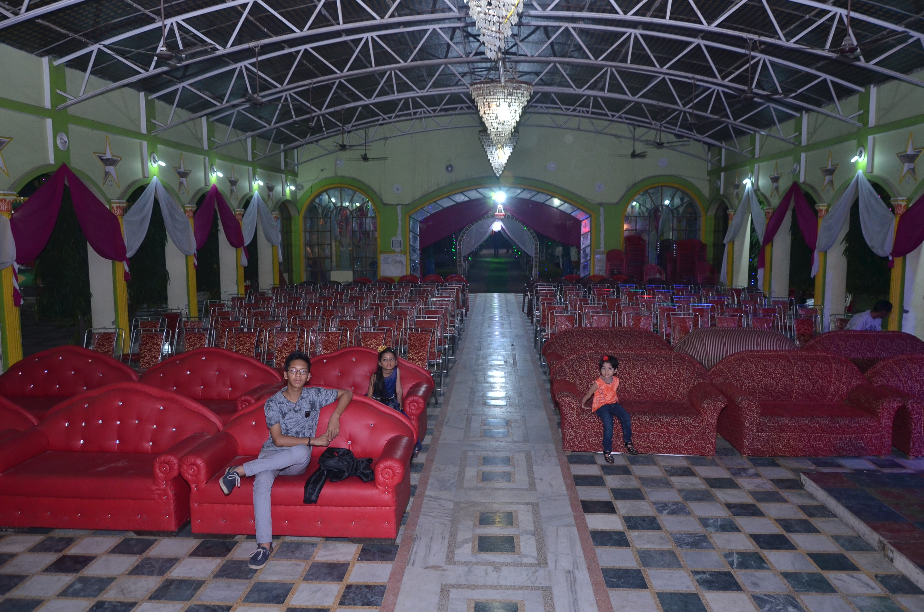
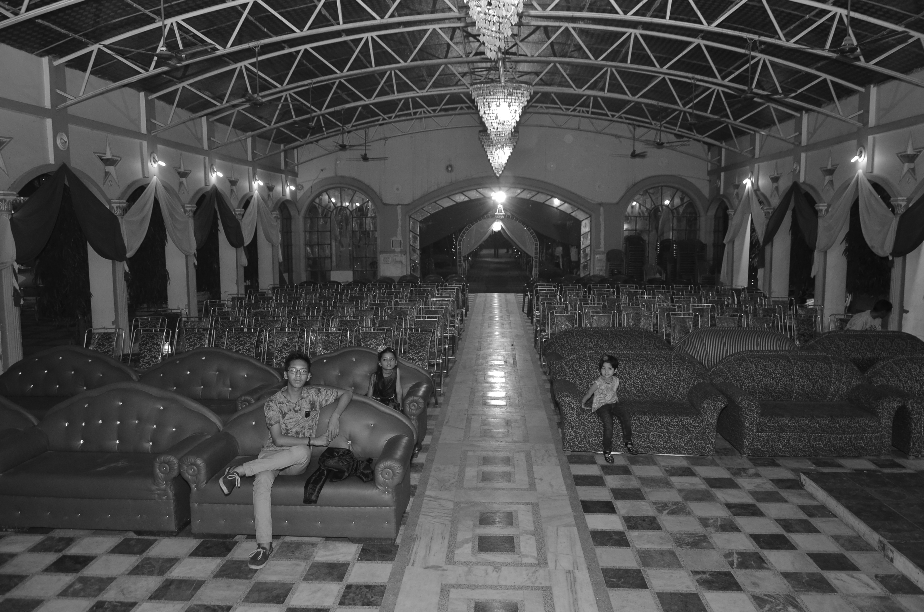
line and arrow

diff --git a/Started_with_Images.py b/Started_with_Images.py
@@ -13,7 +13,7 @@ import cv2
 # image = cv2.imread(filename=r'E:\OpenCV\OpenCV\images\DSC_2962.JPG')
 #image = cv2.imread(filename=r'D:\iNeuron\OpenCV\images\DSC_2962.JPG',flags=cv2.IMREAD_COLOR)
 #image = cv2.imread(filename=r'D:\iNeuron\OpenCV\images\DSC_2962.JPG',flags=cv2.IMREAD_GRAYSCALE)
-image = cv2.imread(filename=r'D:\iNeuron\OpenCV\images\DSC_2962.JPG',flags=cv2.IMREAD_UNCHANGED)
+image = cv2.imread(filename=r'D:\iNeuron\OpenCV\images\DSC_2962.JPG',flags=cv2.IMREAD_GRAYSCALE)
 #image=cv2.resize(image,dsize=(300,300))
 image=cv2.resize(image,dsize=(0,0),fx=0.25,fy=0.25)
 print(image.shape)
@@ -24,4 +24,4 @@ cv2.imshow('deepak marriage', image)
 cv2.waitKey(10000)
 cv2.destroyAllWindows()
 
-
+print(image)

diff --git a/drawLineArrow.py b/drawLineArrow.py
@@ -1,0 +1,12 @@
+import cv2
+#Draw line cv2.line()
+image = cv2.imread(filename=r'D:\iNeuron\OpenCV\images\DSC_2962.JPG')
+image=cv2.resize(image, dsize=(500,500))
+cv2.line(img=image, pt1=(0,0),pt2=(100,100),color=(0,255,0), thickness=5)
+cv2.line(img=image, pt1=(100,100),pt2=(0,450),color=(0,255,255), thickness=10)
+
+# arrow
+cv2.arrowedLine(img=image, pt1=(0,450),pt2=(100,0),color=(0,255,100), tipLength=0.2, thickness=10)
+cv2.imshow("deepak marriage",image)
+cv2.waitKey(0)
+cv2.destroyAllWindows()

diff --git a/DrawingFuncs.py b/DrawingFuncs.py
@@ -1,0 +1,19 @@
+import cv2
+
+#color RGB/BGR
+# opencv take colours in bgr format
+#white 255,255,255
+#black 0,0,0
+# red 255,0,0
+# green 0,255,0
+# blue 0,0,255
+
+# Accessing Pixel Values
+image = cv2.imread(filename=r'D:\iNeuron\OpenCV\images\DSC_2962.JPG')
+image=cv2.resize(image, dsize=(500,500))
+# acecss image pixels for size is 500,500
+image[0:50,0:50]=[45,255,60]
+print(image)
+cv2.imshow("deepak marriage",image)
+cv2.waitKey(0)
+cv2.destroyAllWindows()
